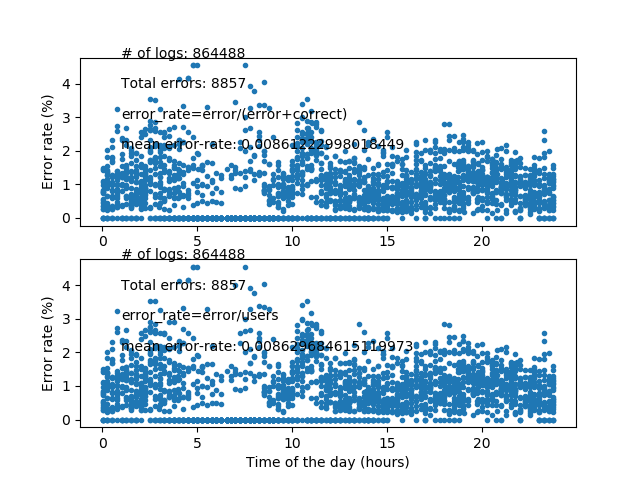
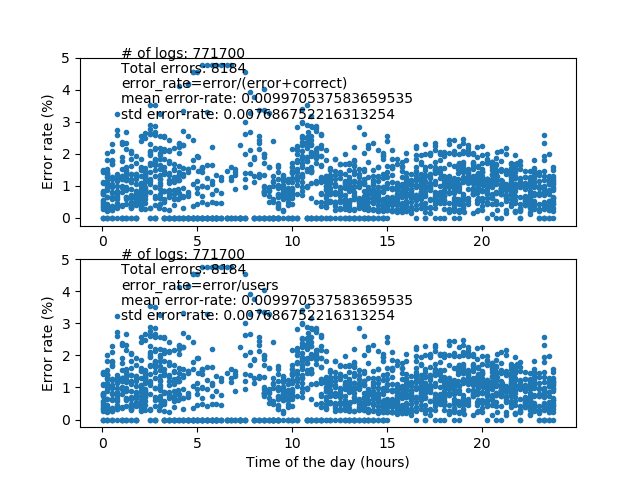
std values added

diff --git a/session1.py b/session1.py
@@ -85,9 +85,10 @@ def get_error_plot(seconds, data, monthname):
     pylab.plot(seconds/3600, error_rate1*100, '.')
     currentAxis = pylab.gca()
     currentAxis.text(1, np.max(error_rate1*100)*1.05, '# of logs: ' + str(np.sum(error)+np.sum(correct)), color='k')
-    currentAxis.text(1, np.max(error_rate1*100)*0.85, 'Total errors: ' + str(np.sum(error)), color='k')
-    currentAxis.text(1, np.max(error_rate1*100)*0.65, 'error_rate=error/(error+correct)', color='k')
-    currentAxis.text(1, np.max(error_rate1*100)*0.45, 'mean error-rate: ' + str(np.mean(error_rate1)), color='k')
+    currentAxis.text(1, np.max(error_rate1*100)*0.95, 'Total errors: ' + str(np.sum(error)), color='k')
+    currentAxis.text(1, np.max(error_rate1*100)*0.85, 'error_rate=error/(error+correct)', color='k')
+    currentAxis.text(1, np.max(error_rate1*100)*0.75, 'mean error-rate: ' + str(np.mean(error_rate1)), color='k')
+    currentAxis.text(1, np.max(error_rate1*100)*0.65, 'std error-rate: ' + str(np.std(error_rate1)), color='k')
 
     pylab.ylabel('Error rate (%)')
 
@@ -95,9 +96,10 @@ def get_error_plot(seconds, data, monthname):
     pylab.plot(seconds / 3600, error_rate2 * 100, '.')
     currentAxis = pylab.gca()
     currentAxis.text(1, np.max(error_rate2*100)*1.05, '# of logs: ' + str(np.sum(error) + np.sum(correct)), color='k')
-    currentAxis.text(1, np.max(error_rate2*100)*0.85, 'Total errors: ' + str(np.sum(error)), color='k')
-    currentAxis.text(1, np.max(error_rate2*100)*0.65, 'error_rate=error/users', color='k')
-    currentAxis.text(1, np.max(error_rate2*100)*0.45, 'mean error-rate: ' + str(np.mean(error_rate2)), color='k')
+    currentAxis.text(1, np.max(error_rate2*100)*0.95, 'Total errors: ' + str(np.sum(error)), color='k')
+    currentAxis.text(1, np.max(error_rate2*100)*0.85, 'error_rate=error/users', color='k')
+    currentAxis.text(1, np.max(error_rate2*100)*0.75, 'mean error-rate: ' + str(np.mean(error_rate2)), color='k')
+    currentAxis.text(1, np.max(error_rate2*100)*0.65, 'std error-rate: ' + str(np.std(error_rate2)), color='k')
 
     pylab.xlabel('Time of the day (hours)')
     pylab.ylabel('Error rate (%)')
@@ -222,4 +224,6 @@ if __name__=='__main__':
 
     get_error_plot(august_seconds, data_august, 'August')
     get_error_plot(september_seconds, data_september, 'September')
+
+    print('this is the end')
 

diff --git a/session_1.md b/session_1.md
@@ -51,26 +51,53 @@ Indeed, a more detailed analysis reveals to peculiarities of the data sets:
 
 The main key point here is that what happened on Aug. 18th can be considered as a rare event, probably out of the normal system specifications that would be required to establish a good baseline for comparison. In order to compensate for that, we need to remove the outliers before aiming at drawing any conclusion from the datasets.
 
+### REMOVE LOGS WHERE #OF USERS IS DIFFERENT FROM #ERROR + #CORRECT
+
+After removing these LOGS the error rate of August and September get closer:
+- Mean error rate in August: 0.013
+- Std of the error rate in August: 0.015 **!!!!!**
+- Mean error rate in September: 0.011
+- Std of the error rate in September: 0.013 **!!!!**
+
+This indicates that the statistical error present in the sample set does not allow to draw any conclusion.
+Either:
+- The potential improvement gained by the developer's team is too low to stand out from the STD
+- Or we need many more statistical samples to understand if mean values are statistically significant
+
 ## OUTLIER CORRECTION
 
 In order to filter out potential outliers, a vector containing all the relative errors has been calculated associated to all the logs in a month. The mean value (mean) along its standard deviation (std) have been calculated separately for August and September.
 
 A particular log has been considered to be an outlier if its associated relative error is within 3 std.
+After the outlier correction the situation is similar:
 
 
 ### Outliers are beyond 3 std's
 
 ![August_errors_3std](August_errors_3std.png)
-In these figures, it can be seen how after removing the outliers out of 3 std's 1.25% in August and 0.86% in September.
+In these figures, it can be seen how after removing the outliers out of 3 std's 1.17% in August and 1.00% in September.
+- Mean error rate in August: 0.0117
+- Std of the error rate in August: 0.0093 **!!!!!**
+- Mean error rate in September: 0.0100
+- Std of the error rate in September: 0.0077**!!!!**
+
+So not even cleaning the data we are able to stand out mean values from the noise!!
+
 
 ![September_errors_3std](September_errors_3std.png)
 
 
 ## CONCLUSIONS
 
-After anylising the data in the quest of potential outliers, a singularity at Aug. 18th has been found, were the system reported unusual error rates that surpassed what it can be classified as normal working conditions. This may be a consequence of i.e. instability of the network environment or something that lies out of the reach of the developers participating in this challenge.  
 
-After filtering out the data to be within 3 standard deviations, it looks that there is a shy improvement on the error rate, but more statistical sampling is needed to draw any conclusion. 
+After analysing the data it is found that we cannot draw any conclusion from the given distribution because it is too noisy.
+
+In the quest of cleaning data we have done 2 things:
+- Get rid of the data where #users was different from #error+#correct: average error rates got closer each other and the std diminished. But not enough.
+- Remove outliers (specially from what happened on Aug 18): average error rates got even closer and the std got smaller, but not enough for mena values to have significance and be compared
+
+All in all, or the team put more effort in reducing more significantly the number of errors, or they will have to use more statistics to demonstrate that a positive change has taken place.
+We cannot pay the bonus owing to the data provided. Sorry team!
 
 ## PYTHON CODE (version 3.7)
 
@@ -163,9 +190,10 @@ def get_error_plot(seconds, data, monthname):
     pylab.plot(seconds/3600, error_rate1*100, '.')
     currentAxis = pylab.gca()
     currentAxis.text(1, np.max(error_rate1*100)*1.05, '# of logs: ' + str(np.sum(error)+np.sum(correct)), color='k')
-    currentAxis.text(1, np.max(error_rate1*100)*0.85, 'Total errors: ' + str(np.sum(error)), color='k')
-    currentAxis.text(1, np.max(error_rate1*100)*0.65, 'error_rate=error/(error+correct)', color='k')
-    currentAxis.text(1, np.max(error_rate1*100)*0.45, 'mean error-rate: ' + str(np.mean(error)), color='k')
+    currentAxis.text(1, np.max(error_rate1*100)*0.95, 'Total errors: ' + str(np.sum(error)), color='k')
+    currentAxis.text(1, np.max(error_rate1*100)*0.85, 'error_rate=error/(error+correct)', color='k')
+    currentAxis.text(1, np.max(error_rate1*100)*0.75, 'mean error-rate: ' + str(np.mean(error_rate1)), color='k')
+    currentAxis.text(1, np.max(error_rate1*100)*0.65, 'std error-rate: ' + str(np.std(error_rate1)), color='k')
 
     pylab.ylabel('Error rate (%)')
 
@@ -173,9 +201,10 @@ def get_error_plot(seconds, data, monthname):
     pylab.plot(seconds / 3600, error_rate2 * 100, '.')
     currentAxis = pylab.gca()
     currentAxis.text(1, np.max(error_rate2*100)*1.05, '# of logs: ' + str(np.sum(error) + np.sum(correct)), color='k')
-    currentAxis.text(1, np.max(error_rate2*100)*0.85, 'Total errors: ' + str(np.sum(error)), color='k')
-    currentAxis.text(1, np.max(error_rate2*100)*0.65, 'error_rate=error/users', color='k')
-    currentAxis.text(1, np.max(error_rate2*100)*0.45, 'mean error-rate: ' + str(np.mean(error)), color='k')
+    currentAxis.text(1, np.max(error_rate2*100)*0.95, 'Total errors: ' + str(np.sum(error)), color='k')
+    currentAxis.text(1, np.max(error_rate2*100)*0.85, 'error_rate=error/users', color='k')
+    currentAxis.text(1, np.max(error_rate2*100)*0.75, 'mean error-rate: ' + str(np.mean(error_rate2)), color='k')
+    currentAxis.text(1, np.max(error_rate2*100)*0.65, 'std error-rate: ' + str(np.std(error_rate2)), color='k')
 
     pylab.xlabel('Time of the day (hours)')
     pylab.ylabel('Error rate (%)')
@@ -226,8 +255,6 @@ def get_month_plot(seconds, data, monthname):
     return month
 
 
-
-
 def clean_data(data):
     check = [int(data['logs'][i]['queries']['correct']) + int(data['logs'][i]['queries']['error']) ==
              int(data['logs'][i]['users']) for i in range(len(data['logs']))]
@@ -246,9 +273,6 @@ def remove_outliers(data, sigma_times):
     logs_correct = list(compress(data['logs'], np.asarray(check)==True))
     data['logs'] = logs_correct
     return data
-
-
-
 
 
 if __name__=='__main__':
@@ -271,11 +295,11 @@ if __name__=='__main__':
 ######  DATA CONDITIONING
 ## Comment in our out the following lines as per your convenience
 
-    #data_august = clean_data(data_august)
-    #data_september = clean_data(data_september)
+    data_august = clean_data(data_august)
+    data_september = clean_data(data_september)
 
-    data_august = remove_outliers(data_august, sigma_times=5)
-    data_september = remove_outliers(data_september, sigma_times=5)
+    data_august = remove_outliers(data_august, sigma_times=3)
+    data_september = remove_outliers(data_september, sigma_times=3)
 ##################
 
 
@@ -301,8 +325,8 @@ if __name__=='__main__':
     get_error_plot(august_seconds, data_august, 'August')
     get_error_plot(september_seconds, data_september, 'September')
 
+    print('this is the end')
 
-  
 ~~~~
 
 
